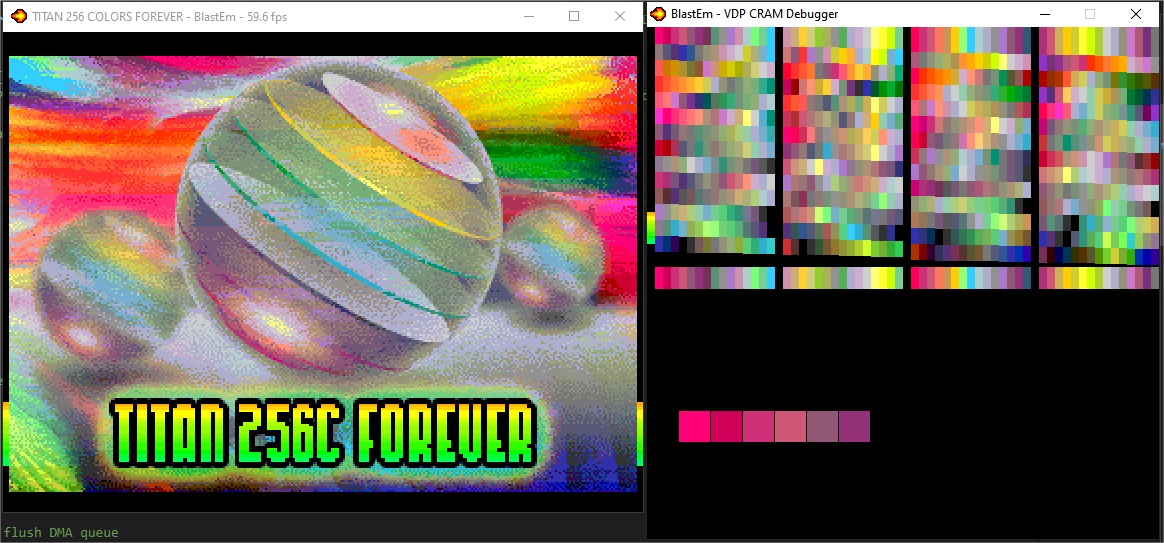
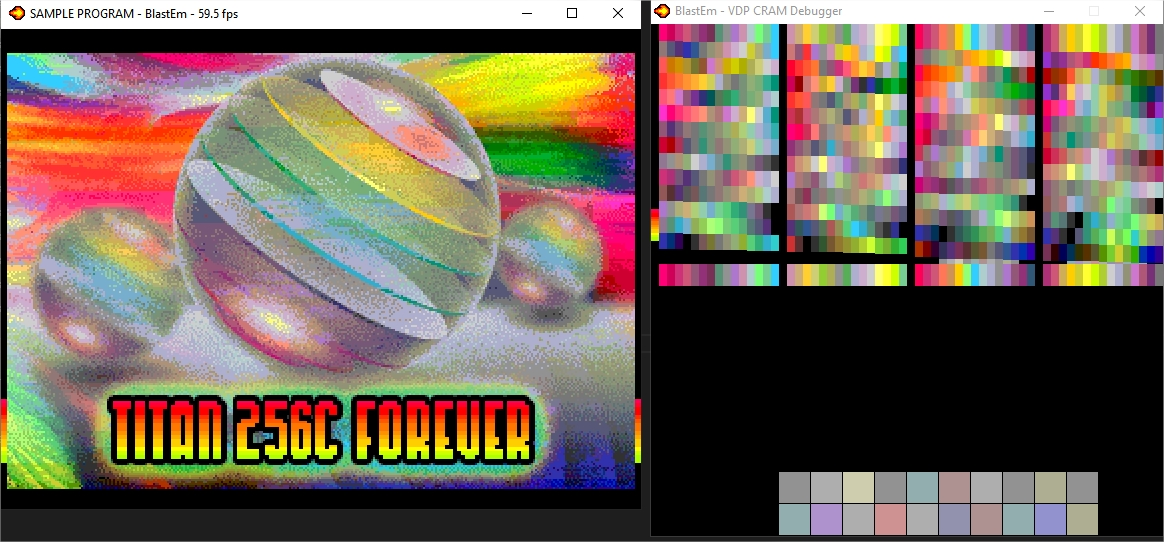
Update screenshots

diff --git a/README.md b/README.md
@@ -43,8 +43,7 @@ the second unwanted HInt invocation. Ugly hack but this is what I came up so far
 ![titan_dma_onetime.jpg](screenshots/titan_dma_onetime.jpg?raw=true "titan_dma_onetime.jpg")
 
 
-**B** shows two black lines over the text color ramp. Digging around what's the issue.  
-**C** still WIP. I'm timing some instructions and see where is the right place to put them.
+**B** and **C** show two black lines over the text color ramp. Digging around what's the issue.
 
 
 ### TODO:
